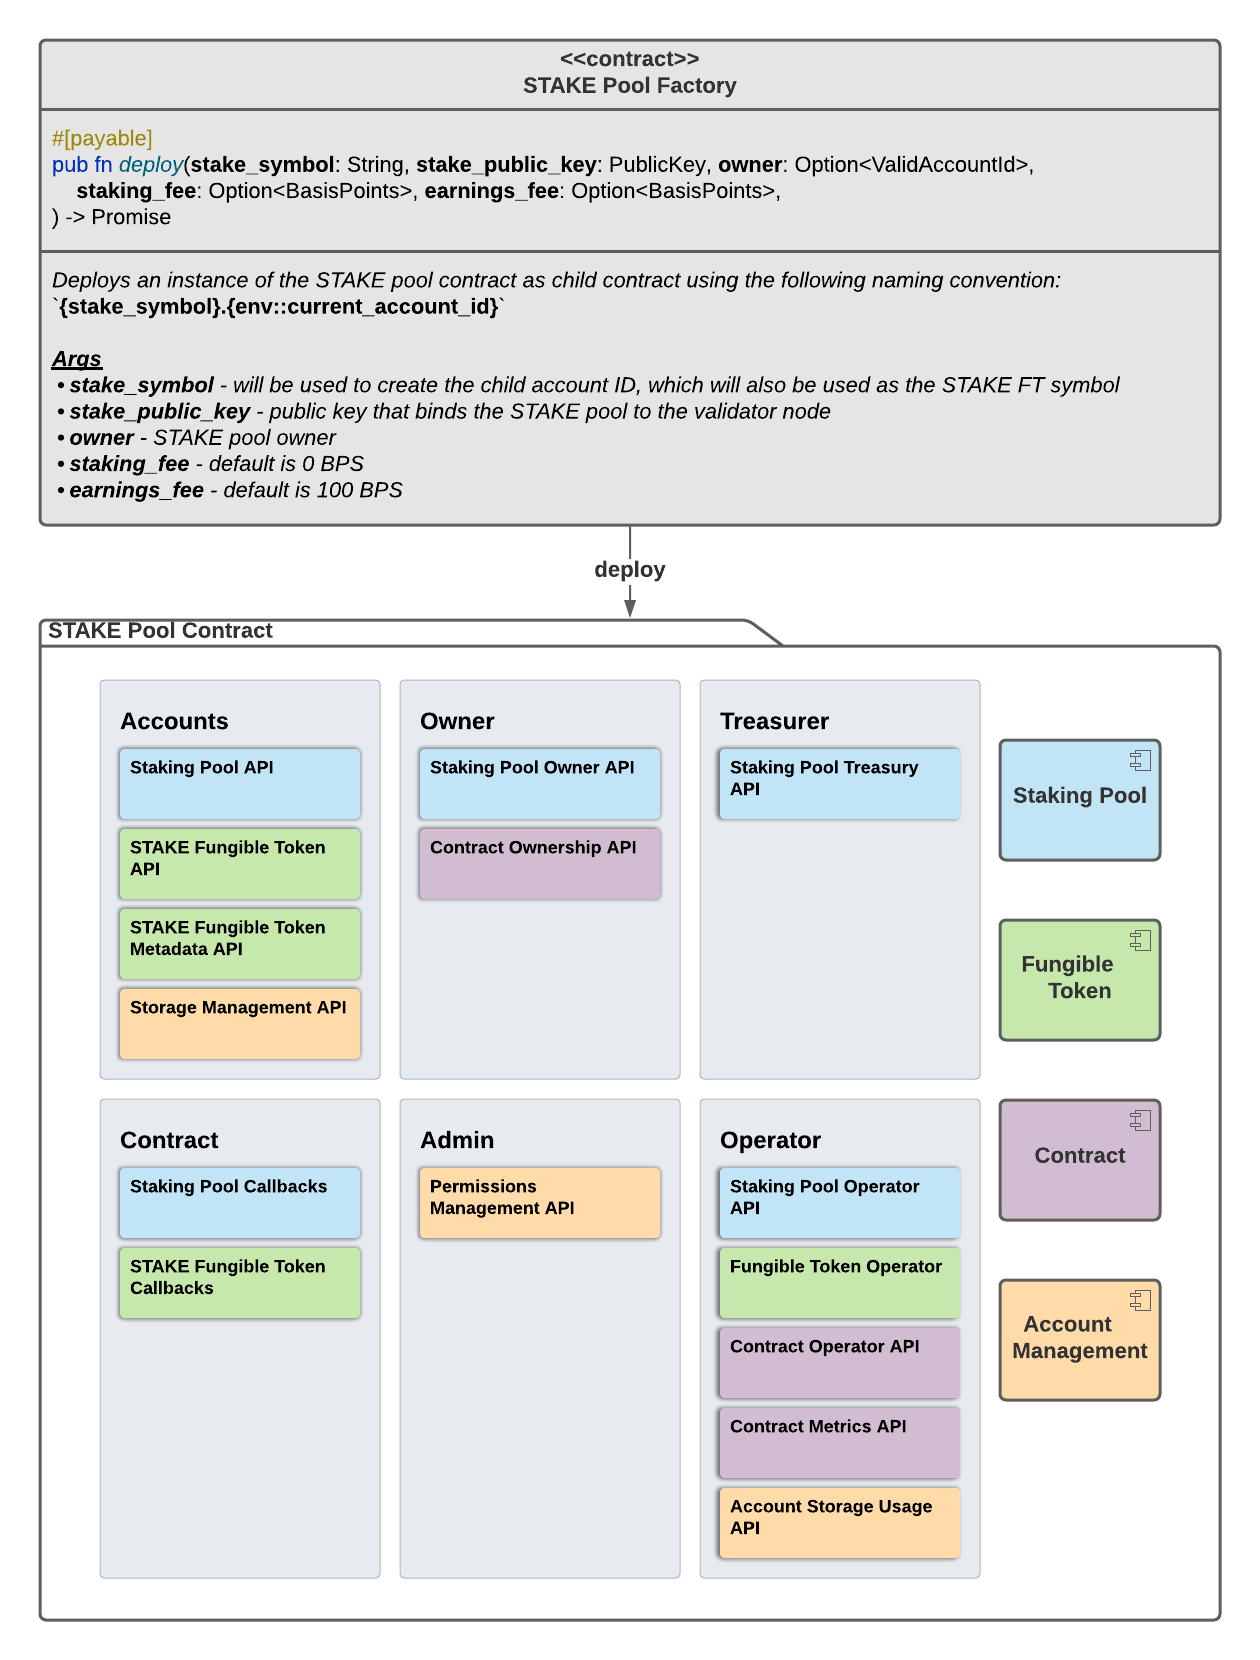
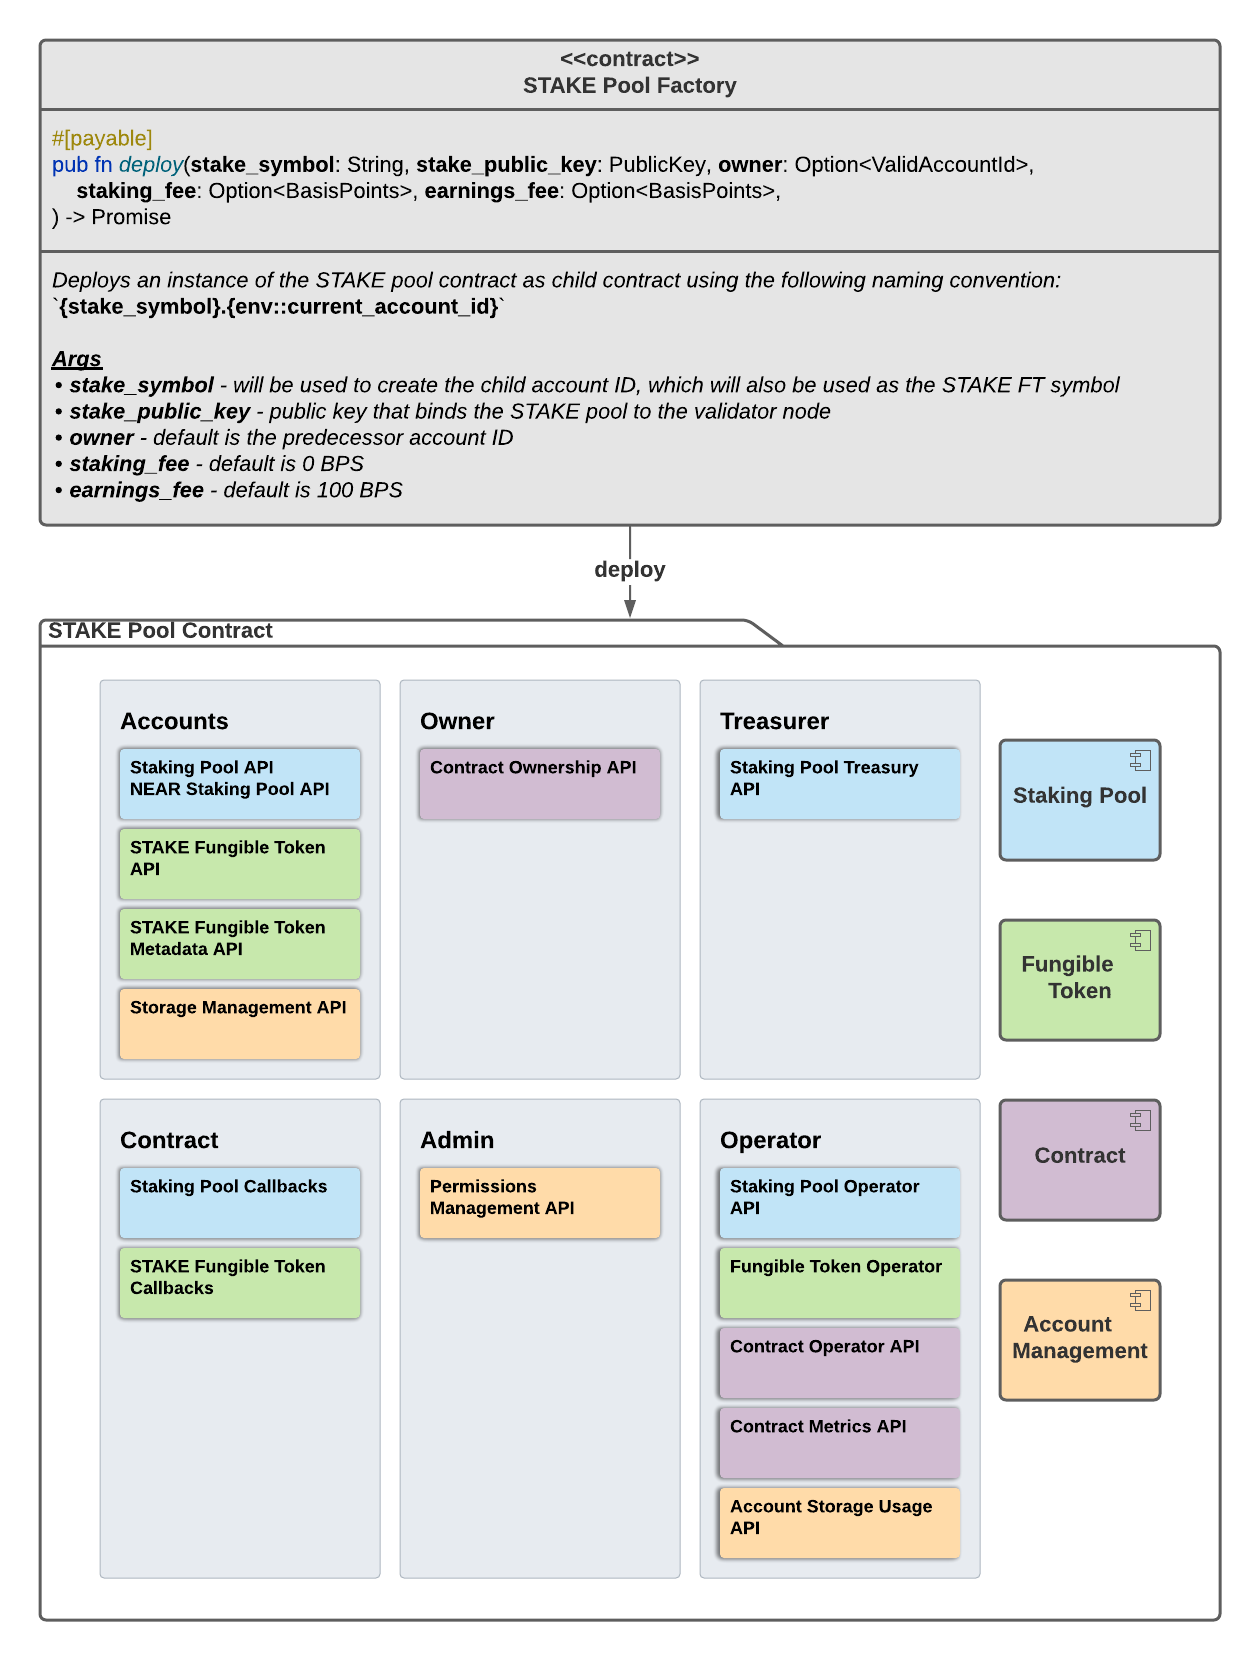
OysterPack SMART STAKE Pool Contract for Validators tutorial - WIP

Changed region(s): [[0.3095, 0.4301, 0.5262, 0.553], [0.1238, 0.2458, 0.4024, 0.2765], [0.0929, 0.4608, 0.2476, 0.4916]]

diff --git a/network-documentation/near/tutorials/1-project_overview/9-stake-pool-for-validators.md b/network-documentation/near/tutorials/1-project_overview/9-stake-pool-for-validators.md
@@ -1,13 +1,12 @@
 ---
-description: OysterPack SMART STAKE Pool Contract - For Validators
+description: OysterPack SMART STAKE Pool Contract API Guide - For Validators
 ---
 
-# OysterPack SMART STAKE Pool Guide for Validators
+# OysterPack SMART STAKE Pool API Guide for Validators
 
-This tutorial is meant to serve as a guide for validators for managing and operating the **next generation** [OysterPack SMART
-STAKE Pool][1] contract. If you wonder why I call it the "**next generation**" staking pool, then I refer you back to my previous
-tutorial. In the last tutorial I showed you how easy it was to deploy the STAKE pool contract using the STAKE Pool Factory
-contract and how to get started. As a validator, it is fundamental to know your staking pool contract in depth because
+In my last tutorial I introduced you to the **next generation** [OysterPack SMART STAKE Pool][1] contract as a getting
+started guide. In this tutorial, we'll be covering the rest of the contract APIs to help validators manage and operate
+the STAKE Pool contract. As a validator, it is fundamental to know your staking pool contract in depth because
 it is core to your validator business because it impacts your bottom line.
 
 > Even though the main target audience are validators, contract developers will also benefit. You will learn about OysterPack
@@ -20,25 +19,30 @@ it is core to your validator business because it impacts your bottom line.
 
 ![](../../../../.gitbook/assets/oysterpack-smart-stake-operator-usecases.png)
 
-The contract is composed of 4 OysterPack SMART components:
 
-1. Account Management
-2. Contract
-3. Fungible Token
-4. Staking Pool
+1. **Account Management Component**
+   - [Storage Management API][7] - used by stakers to register with the contract and manage account storage balances
+   - **Permissions Management API** - used by validators to manage account permissions for securing API access
+   - **Account Storage Usage API** - used to monitor account storage usage 
+2. **Contract Component**
+   - **Contract Ownership API** - used by the contact owner, i.e., validators, to transfer contract ownership
+   - **Contract Operator API** - used by validators to manage core contract functions
+   - **Contract Metrics API** - used to monitor key contract metrics 
+3. **Fungible Token Component**
+   - [Fungible Token Core API][8] - used by stakers to manage their STAKE fungible token balances
+   - [Fungible Token Metadata API][9] - used by tools and apps to retrieve STAKE token metadata
+   - **Fungible Token Operator** - used by validators to manage the metadata
+   - **STAKE Fungible Token Callbacks** - private API callbacks used to collect and deposit funds into the treasury
+4. **Staking Pool Component**
+   - **Staking Pool API** - used by stakers to stake and manage their staked funds
+   - **NEAR Staking Pool API** - adapts the **Staking Pool API** to match the first generation NEAR staking pool APIs used by stakers
+   - **Staking Pool Treasury API** - used by validators to manage treasury funds
+   - **Staking Pool Operator API** - used by validators to manage the staking pool
+   - **Staking Pool Callbacks** - private API callbacks used to handle NEAR stake actions
 
-Each component in turn provides 1 or more contract API interfaces. in the last tutorial we covered the staking pool APIs.
-We will pick up where we left off and cover the rest in this tutorial. We will be using a divide and conquer approach and 
-step through each component and API interface. The contract is implemented in Rust. Thus, I will review the contract API
-in Rust, and I will also show how to invoke the contract APIs using the [NEAR CLI][2]. All the contract [source code][3] 
-is available on GitHub. I expect the validators to be more technical savvy
-
-## Component Dependency Graph
-
-![](../../../../.gitbook/assets/oysterpack-smart-stake-comps.png)
-
-Notice how everything depends on **Account Management**. That makes sense because ultimately all STAKE Pool contract 
-functionality derives from accounts staking funds into the pool. This is where we will get started. 
+As you can see, there is much to cover. Here's the approach we will take. For each of the contract API interfaces, we'll 
+review the Rust contract API and how to invoke the API via the [NEAR CLI][2]. If you are interested in seeing how the APIs 
+are implemented, then all the contract [source code][3] is available on GitHub to study and explore.
 
 ## Account Management Component
 
@@ -358,3 +362,6 @@ near --node_url $NEAR_NODE_URL view $CONTRACT ft_operator_transfer_callback_gas
 [4]: https://learn.figment.io/network-documentation/near/tutorials/1-project_overview/5-account-storage
 [5]: https://learn.figment.io/network-documentation/near/tutorials/1-project_overview/2-fungible-token
 [6]: https://nomicon.io/Standards/FungibleToken/README.html
+[7]: https://nomicon.io/Standards/StorageManagement.html
+[8]: https://nomicon.io/Standards/FungibleToken/Core.html
+[9]: https://nomicon.io/Standards/FungibleToken/Metadata.html
